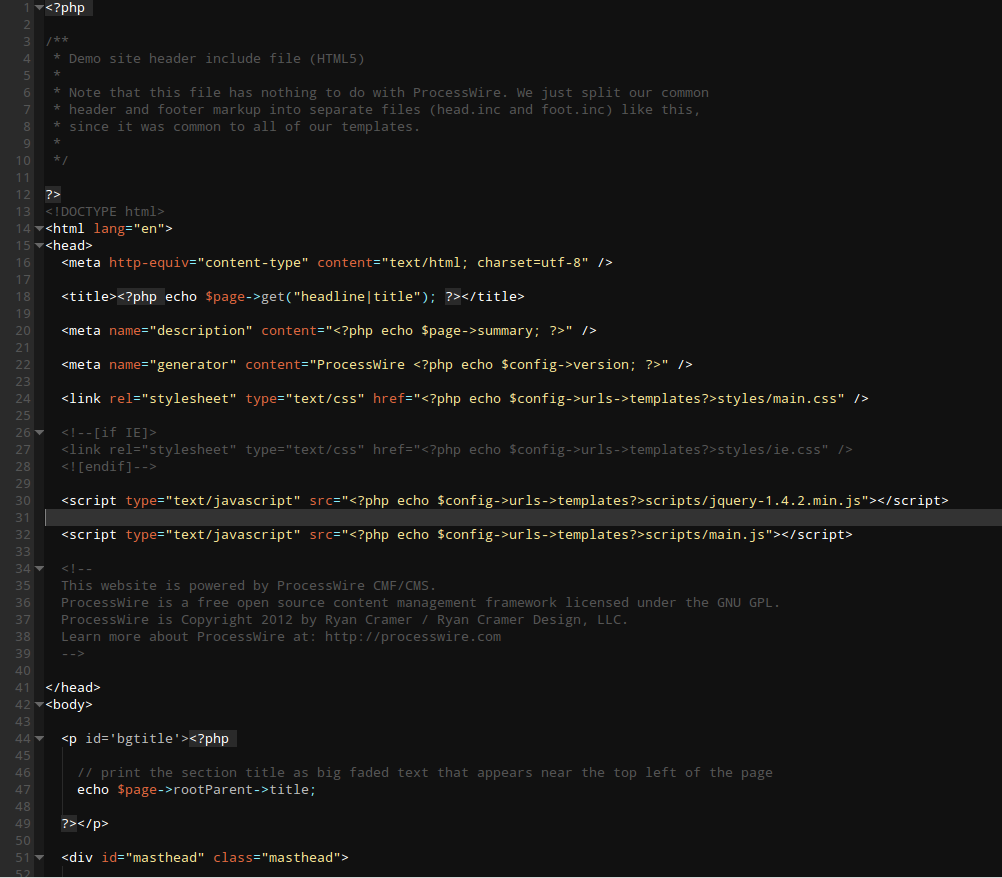
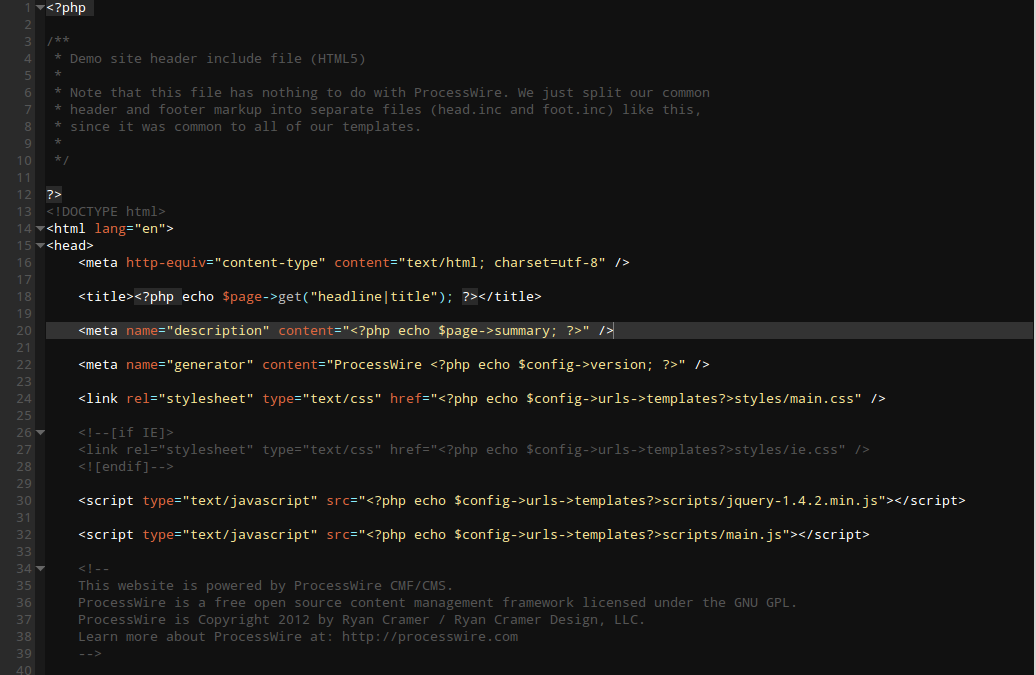
change tabs to 4 spaces

diff --git a/README.md b/README.md
@@ -5,6 +5,6 @@ dark theme for TextAdept http://foicica.com/textadept/
 
 To install create a ~/.textadept/theme/ folder, if you don't have one already, and drop the theme inside it.
 
-![Screenshot](https://raw.github.com/ocorreiododiogo/diogo-dark-theme/master/screenshot.png)
+![Screenshot](screenshot.png)
 
 
